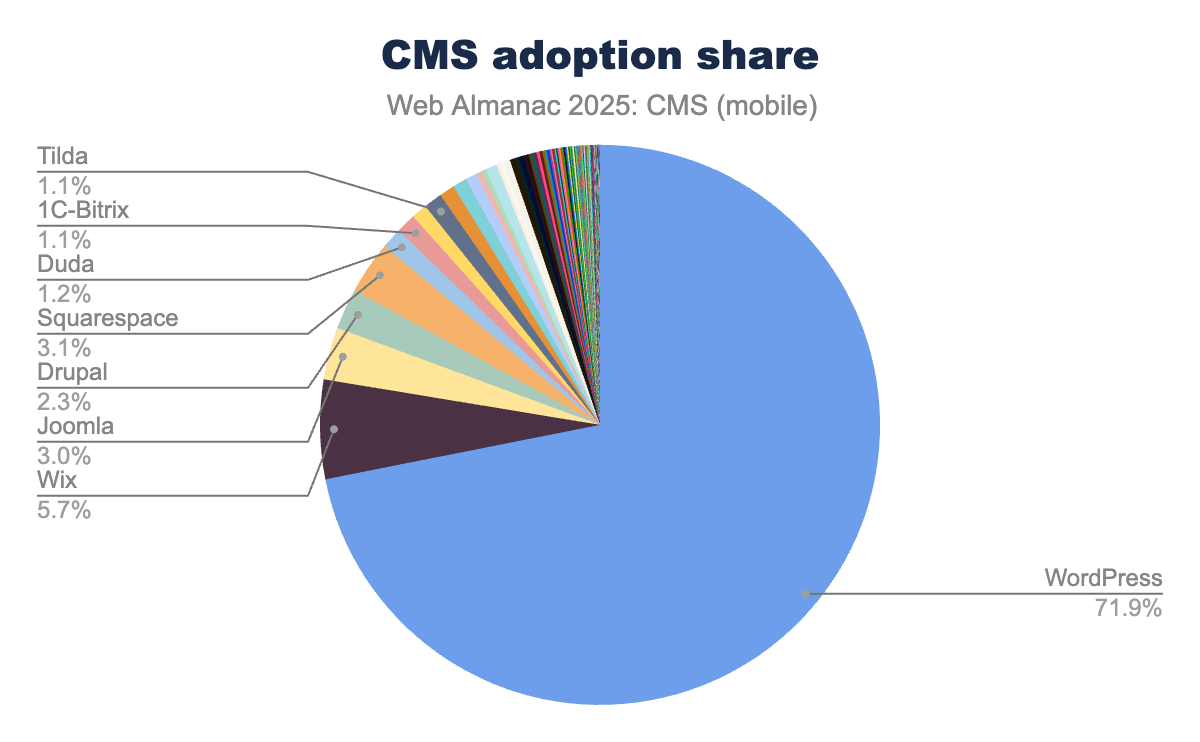
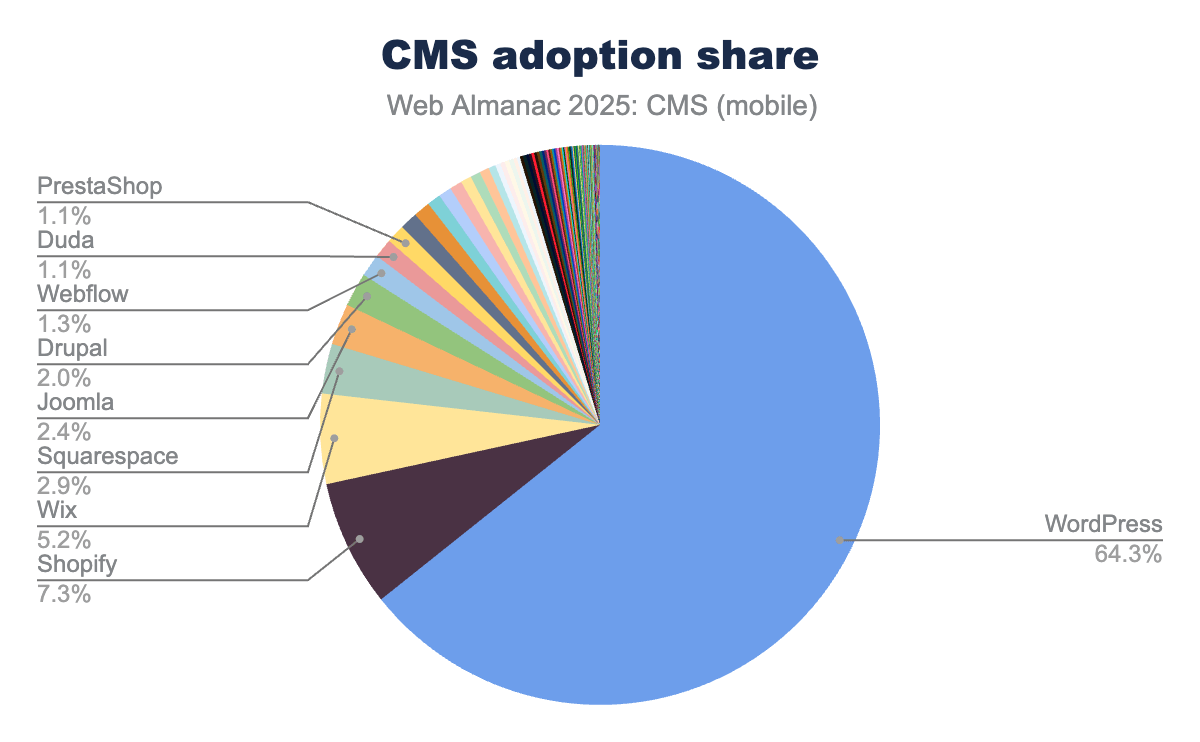
Images

Changed region(s): [[0.0308, 0.186, 0.5242, 0.8059], [0.6783, 0.6819, 0.9867, 0.8369]]

diff --git a/src/content/en/2025/cms.md b/src/content/en/2025/cms.md
@@ -92,7 +92,7 @@ Among the top 10,000 websites, WordPress accounts for roughly 58% of CMS usage, 
 {{ figure_markup(
   image="cms-adoption-share.png",
   caption="CMS adoption share.",
-  description="Pie chart highlighting the massive market dominance of WordPress, which accounts for 64.4% of all mobile CMS usage. Shopify holds the second-largest share at 7.2%, followed by Wix at 5.1%, while competitors like Squarespace and Joomla maintain much smaller footprints below 3%. The remaining portion of the chart is fragmented among dozens of niche providers, with systems like Webflow and Drupal each representing less than 2% of the total adoption.",
+  description="Pie chart highlighting the massive market dominance of WordPress, which accounts for 64.3% of all mobile CMS usage. Shopify holds the second-largest share at 7.3%, followed by Wix at 5.2%, while competitors like Squarespace and Joomla maintain much smaller footprints below 3%. The remaining portion of the chart is fragmented among dozens of niche providers, with systems like Webflow and Drupal each representing less than 2% of the total adoption.",
   chart_url="https://docs.google.com/spreadsheets/d/e/2PACX-1vQl8kslfFxccGPgWkzCtjnDEtkWaZfqnxncddAaoIhMjAtkmY_1laqzaTbrq-9G-cCiQlzjqeXFk3P4/pubchart?oid=1716078713&format=interactive",
   sheets_gid="54237467",
   sql_file="TODO.sql"
@@ -101,7 +101,7 @@ Among the top 10,000 websites, WordPress accounts for roughly 58% of CMS usage, 
 
 WordPress remains the dominant CMS in 2025, powering roughly 64% of CMS-driven sites. Its growth, however, has slowed to under one percentage point year over year, which points more to market saturation than to a major competitive threat from any single rival.
 
-The data shows that this slowdown is not caused by one platform displacing WordPress. Instead, small gains are spread across several CMSs. Shopify has grown to around 6.7–6.8% CMS share, Wix to about 5.2%, and Squarespace to roughly 3.0–3.3%. No single platform's growth is large enough to offset WordPress's slowing expansion, suggesting a more fragmented ecosystem rather than a consolidating one.
+The data shows that this slowdown is not caused by one platform displacing WordPress. Instead, small gains are spread across several CMSs. Shopify has grown to around 7.3–7.8% CMS share, Wix to about 5%, and Squarespace to roughly 3%. No single platform's growth is large enough to offset WordPress's slowing expansion, suggesting a more fragmented ecosystem rather than a consolidating one.
 
 Overall, the data indicates a more diverse CMS landscape shaped by market maturity and greater choice. WordPress remains broadly adopted, but new growth is increasingly distributed across multiple platforms instead of accruing to a single default CMS.
 
@@ -110,14 +110,14 @@ Overall, the data indicates a more diverse CMS landscape shaped by market maturi
 {{ figure_markup(
   image="top-5-cms.png",
   caption="Top 5 CMS'.",
-  description="Bar chart tracking the year-over-year mobile adoption trends of the most popular platforms from 2022 to 2025. WordPress maintains a massive, consistent lead over its competitors, ending the period with a 35.0% adoption rate. While Wix and Squarespace have experienced steady growth, reaching 2.8% and 1.5% respectively, older open-source platforms like Joomla and Drupal have seen a gradual decline in market share.",
+  description="Bar chart tracking the year-over-year mobile adoption trends of the most popular platforms from 2022 to 2025. WordPress maintains a massive, consistent lead over its competitors, ending the period with a 35.6% adoption rate. While Wix and Squarespace have experienced steady growth, reaching 2.8% and 1.5% respectively, older open-source platforms like Joomla and Drupal have seen a gradual decline in market share.",
   chart_url="https://docs.google.com/spreadsheets/d/e/2PACX-1vQl8kslfFxccGPgWkzCtjnDEtkWaZfqnxncddAaoIhMjAtkmY_1laqzaTbrq-9G-cCiQlzjqeXFk3P4/pubchart?oid=1261903171&format=interactive",
   sheets_gid="54237467",
   sql_file="TODO.sql"
   )
 }}
 
-Year-over-year growth among CMS platforms in 2025 is modest and uneven. Shopify remains the fastest-growing major CMS, increasing its share by roughly 0.5–0.6 percentage points to about 6.7–6.8%, continuing a decade-long rise driven largely by e-commerce. Squarespace shows smaller but positive growth of roughly 0.2–0.3 points, reaching around 3.0–3.3%. Wix's growth slows sharply compared with prior years and is now effectively flat at about 5.2% after a period of rapid expansion. These gains are incremental and spread out, not indicative of a new wave of explosive growth.
+Year-over-year growth among CMS platforms in 2025 is modest and uneven. Shopify remains the fastest-growing major CMS, increasing its share by roughly 0.5–0.6 percentage points to about 6.7–6.8%, continuing a decade-long rise driven largely by ecommerce. Squarespace shows smaller but positive growth of roughly 0.2–0.3 points, reaching around 3.0–3.3%. Wix's growth slows sharply compared with prior years and is now effectively flat at about 5.2% after a period of rapid expansion. These gains are incremental and spread out, not indicative of a new wave of explosive growth.
 
 By contrast, WordPress's share declines slightly year over year—by less than one percentage point—from its 2024 peak, marking its first sustained slowdown after decades of expansion. Even so, WordPress still powers most CMS-driven sites and remains the clear leader across the web. Traditional open-source platforms like Joomla and Drupal continue long-term declines in overall share, though Drupal is still disproportionately represented among high-traffic sites. In short, the fastest-growing CMSs in 2025 are making gains in specific niches, while WordPress remains dominant in absolute terms and continues to anchor the broader ecosystem.
 
@@ -549,7 +549,7 @@ In a world of evolving search and discovery systems, structured data acts as a s
 
 The CMS landscape in 2025 reflects a mature, increasingly polarized web. HTTP Archive data shows that CMS platforms now power the vast majority of sites, while non-CMS sites keep shrinking as a share of the web. At the same time, adoption patterns, performance outcomes, and resource usage vary widely according to platform choice, hosting model, and implementation discipline.
 
-Market share data confirms that WordPress is still the dominant CMS, powering more than 60% of CMS-driven sites. Platforms like Shopify continue to grow quickly in specific niches, especially e-commerce, while many other hosted builders show signs of slowing down. Rank-based analysis reveals that these trends are uneven: open-source CMSs remain overrepresented among high-traffic sites, while SaaS builders dominate the long tail of smaller properties. This suggests that CMS selection is increasingly driven by organizational needs and constraints, not just general popularity.
+Market share data confirms that WordPress is still the dominant CMS, powering more than 60% of CMS-driven sites. Platforms like Shopify continue to grow quickly in specific niches, especially ecommerce, while many other hosted builders show signs of slowing down. Rank-based analysis reveals that these trends are uneven: open-source CMSs remain overrepresented among high-traffic sites, while SaaS builders dominate the long tail of smaller properties. This suggests that CMS selection is increasingly driven by organizational needs and constraints, not just general popularity.
 
 Performance data reinforces this split. Vertically integrated platforms tend to deliver more consistent Core Web Vitals, especially on mobile. Self-hosted CMSs show much wider variance, influenced by themes, plugins, and third-party integrations. Page weight and resource composition data further show that implementation decisions often matter more than platform defaults. Even within a single CMS, sites range from highly optimized to severely bloated, underscoring that performance is an ongoing practice, not a built-in guarantee.
 
